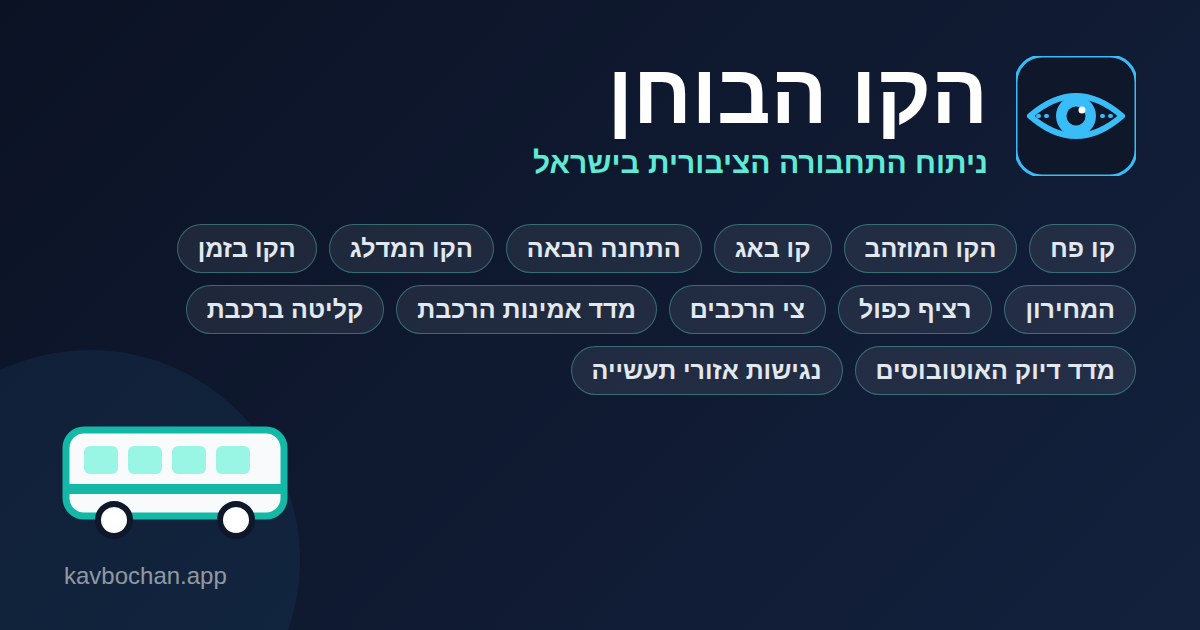
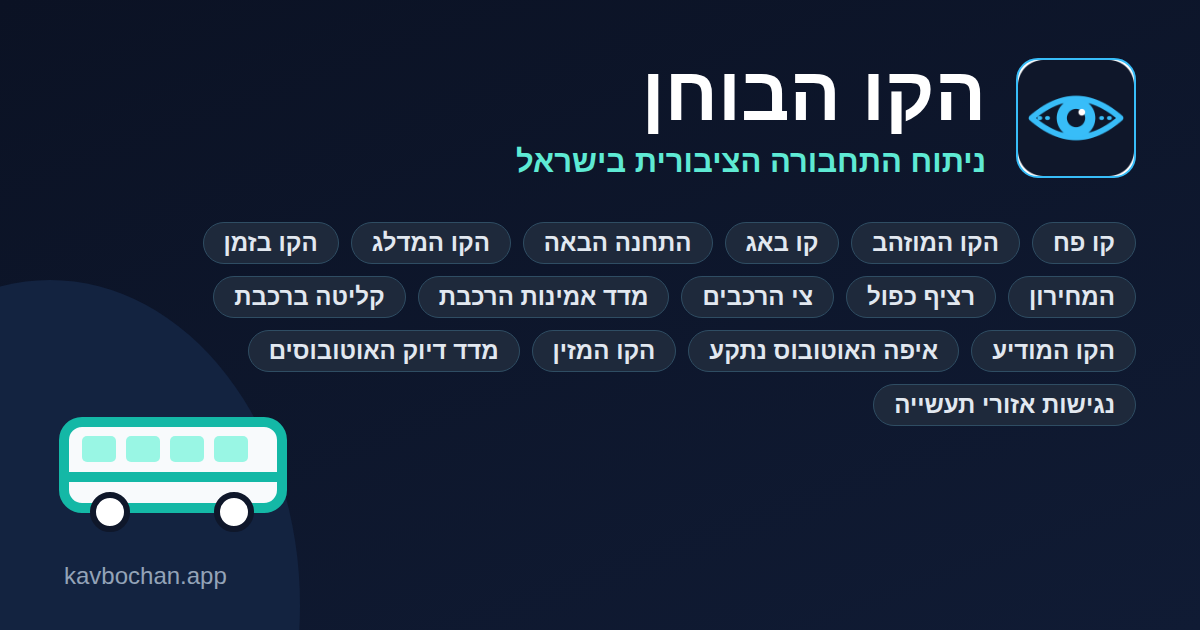
כרטיסי שיתוף: הקו הבוחן עם כל 16 הכלים, וכרטיס לאיפה האוטובוס נתקע
tools/og_cards.mjs בונה את og-image.png — רשימת הכלים נלקחת מהכרטיסים ב-KavPach.jsx.
נוספו לכרטיס: הקו המודיע, הקו המזין, איפה האוטובוס נתקע. כלל חדש ב-CLAUDE.md.

Claude-Session: https://claude.ai/code/session_01XVdRW2zNZar2SDTYThjgoD

diff --git a/bus-speed/index.html b/bus-speed/index.html
@@ -8,7 +8,9 @@
 <meta name="description" content="מהירות האוטובוסים בכל רחוב ובכל שעה, לפי המיקום שהם משדרים: איפה נתקעים, מתי, ואיזה יישוב הכי עמוס">
 <meta property="og:title" content="איפה האוטובוס נתקע — הקו הבוחן">
 <meta property="og:description" content="מהירות האוטובוסים בכל רחוב ובכל שעה, לפי המיקום שהם משדרים">
-<meta property="og:image" content="https://kavbochan.app/og-image.png">
+<meta property="og:image" content="https://kavbochan.app/bus-speed/og-image.png">
+<meta property="og:image:width" content="1200">
+<meta property="og:image:height" content="630">
 <meta name="twitter:card" content="summary_large_image">
 <script src="../version.js" defer></script>
 <title>איפה האוטובוס נתקע</title>

diff --git a/index.html b/index.html
@@ -20,7 +20,7 @@
 <meta property="og:description" content="כלים חופשיים לבחינת התחבורה הציבורית: היסטוריית קווים ותחנות מ-2003, נגישות אזורי תעשייה, תחנות בעייתיות ועוד, על בסיס הנתונים הרשמיים וארכיון אתרי המידע לנוסעים." />
 <meta property="og:url" content="https://kavbochan.app/" />
 <meta property="og:site_name" content="הקו הבוחן" />
-<meta property="og:image" content="https://kavbochan.app/og-image.png?v=4" />
+<meta property="og:image" content="https://kavbochan.app/og-image.png?v=5" />
 <meta property="og:image:width" content="1200" />
 <meta property="og:image:height" content="630" />
 <meta name="twitter:card" content="summary_large_image" />

diff --git a/CLAUDE.md b/CLAUDE.md
@@ -48,3 +48,15 @@
   (שכבת התוויות LTR כדי שהמיקום יחושב נכון, והטקסט עצמו RTL).
 - כלי חדש עם מפה, או מפה חדשה בכלי קיים — לוודא שהכלל הזה קיים בדף שלו.
 
+
+## כרטיסי שיתוף (og-image) — לכל כלי חדש באתר (שלמה 29.10.2026)
+
+- כששולחים קישור בווטסאפ מופיעה תמונת השיתוף (`og-image.png`, 1200×630). בכרטיס של הקו הבוחן
+  (`og-image.png` בשורש) מופיעים כל הכלים שיש להם כרטיס בדף הבית.
+- **באותו PR** שמעלה כלי חדש לדף הבית:
+  1. כרטיס לכלי עצמו: להוסיף אותו ל-`TOOLS` ב-`tools/og_cards.mjs`, ולקשר ב-`<meta property="og:image">`
+     של הדף שלו לתמונה `<תיקייה>/og-image.png`.
+  2. לבנות מחדש את הכרטיס של הקו הבוחן. רשימת הכלים נלקחת לבד מהכרטיסים ב-`KavPach.jsx`, ולהעלות
+     את מספר הגרסה בקישור לתמונה ב-`index.html` (`og-image.png?v=N`), כי ווטסאפ שומר תמונה ישנה לפי הכתובת.
+  - הרצה: `NODE_PATH=$(npm root -g) node tools/og_cards.mjs` (אפשר רק `home` או רק תיקיית הכלי).
+- כלי שלא עלה לדף הבית (gis/, unreleased/) — בלי כרטיס, ולא מופיע בכרטיס של הקו הבוחן.
